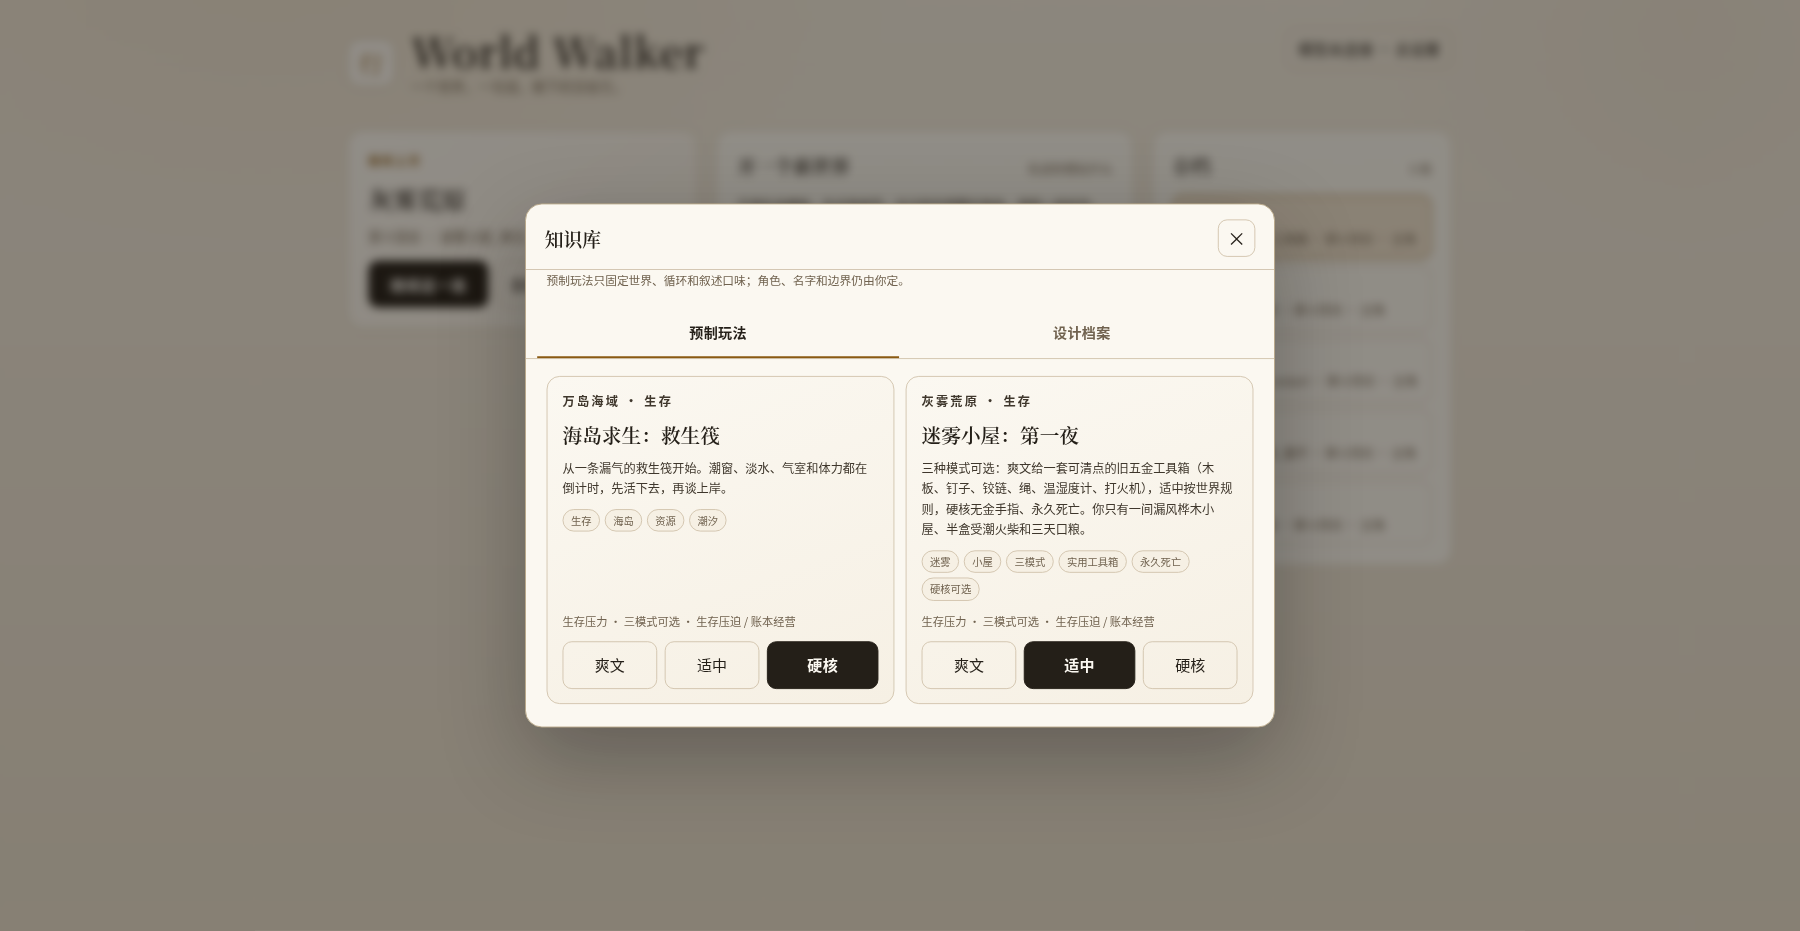
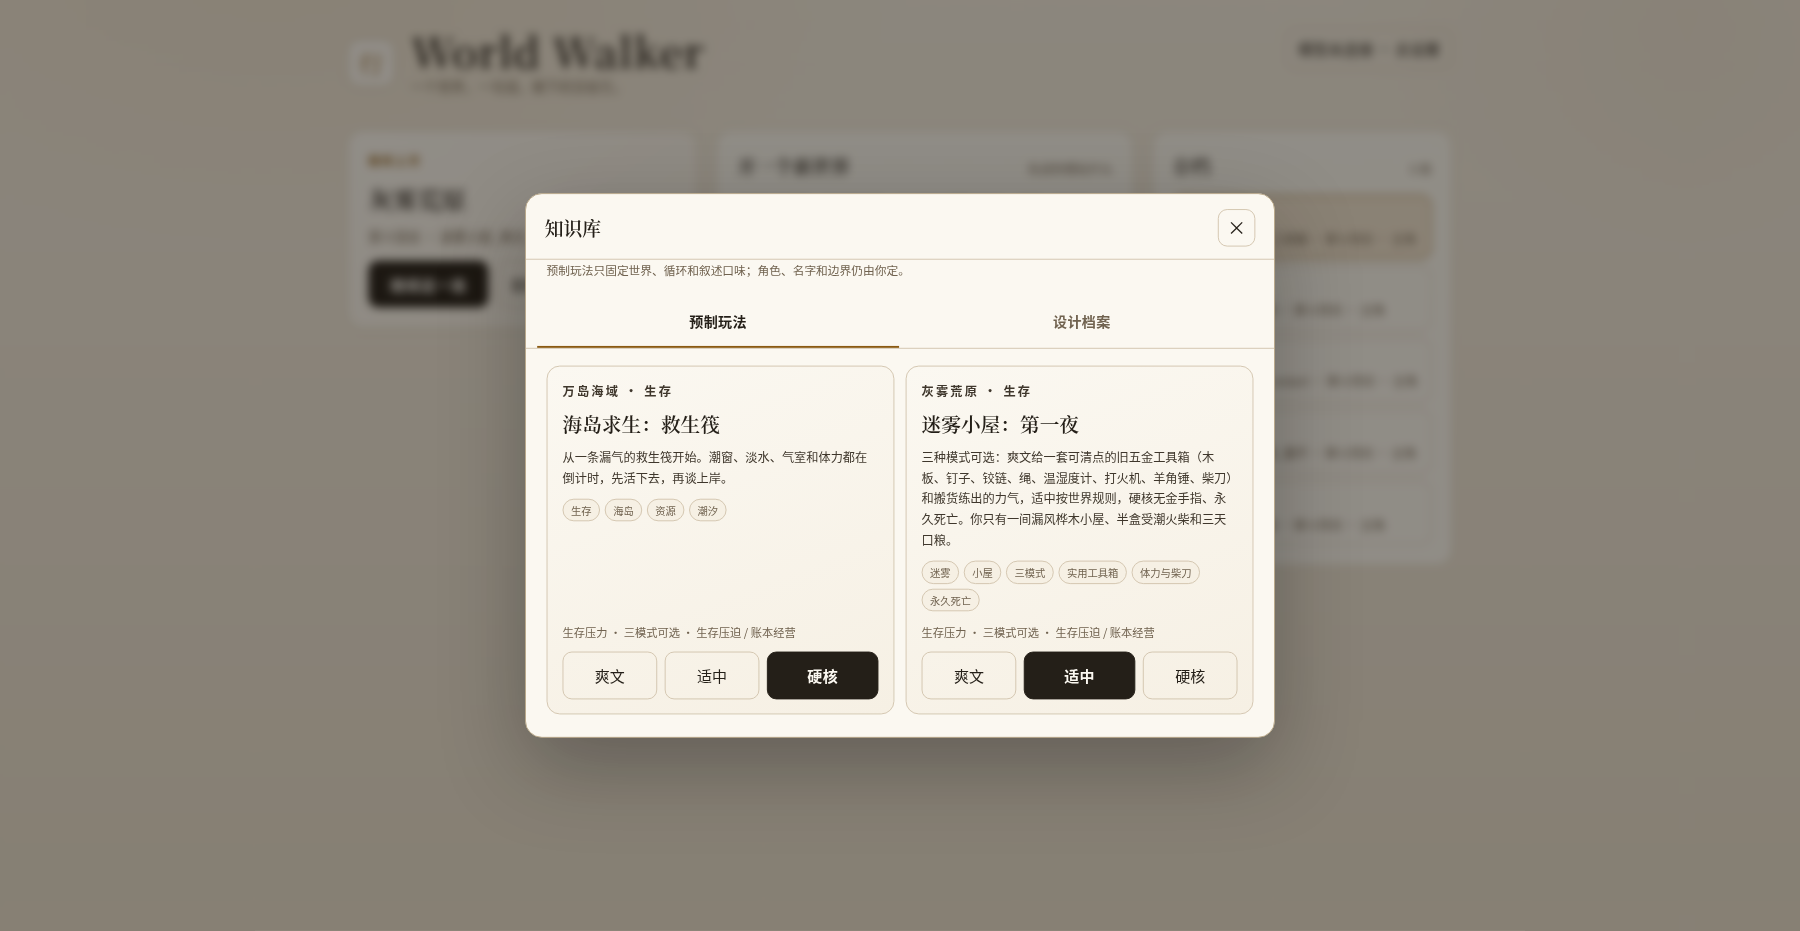
feat: add hauling strength and billhook to fog power mode

Changed region(s): [[0.28, 0.3426, 0.7156, 0.8099], [0.28, 0.1869, 0.7156, 0.3115]]

diff --git a/panel.js b/panel.js
@@ -126,7 +126,7 @@
     tones: ["明亮", "阴郁", "热血", "克制", "荒诞"],
     difficulties: ["轻松", "标准", "硬核", "铁人"],
     modes: [
-      { id: "power", label: "爽文", short: "世界偏向你", description: "起始物资更足；所有加成都是可清点的实物，能数、会用完、会被抢。" },
+      { id: "power", label: "爽文", short: "世界偏向你", description: "起始物资更足；所有加成都能在背包和属性栏里核对，会用完、会被抢。" },
       { id: "balanced", label: "适中", short: "规则不偏向谁", description: "资源、威胁和成长按设定走。" },
       { id: "hardcore", label: "硬核", short: "世界不欠你", description: "资源更紧，死亡不可复活。" },
     ],

diff --git a/rules/modes.py b/rules/modes.py
@@ -18,11 +18,11 @@ MODE_SPECS = {
     "power": {
         "id": "power",
         "label": "爽文",
-        "short": "物资更足，全是实物",
-        "description": "前两类主耗材 +50%，口粮钱 +50%，物价 -15%，库存 +2，压力钟 -1；失败通常留一口气。所有好处都是可清点的实物：会吃掉、烧掉、用坏或被抢走。",
+        "short": "工具齐全，力气够用",
+        "description": "前两类主耗材 +50%，口粮钱 +50%，物价 -15%，库存 +2，压力钟 -1；失败通常留一口气。爽文给的是可清点的工具和搬货练出的身板：会用坏、会累、会被抢。",
         "world_intensity": "低",
         "play_style": "爽文推进",
-        "system_strength": "无系统；可清点的起始物资（会损耗/被抢）",
+        "system_strength": "无系统；可清点的工具与体力（会累/会坏/被抢）",
         "death_rule": "重伤留一口气，不直接抹掉角色",
         "resource_curve": "宽裕",
         "encounter_pressure": "低",
@@ -33,8 +33,8 @@ MODE_SPECS = {
         "clock_delta": -1,
         "price_mult": 0.85,
         "supply_delta": 2,
-        "edge": "起始前两类主耗材 +50%，口粮钱 +50%，物价 -15%、库存 +2；所有加成都是实物，能清点、会损耗。",
-        "narrative_rule": "给玩家留退路：失败先给代价和转机，不连续下死手；爽文加成只能落在可清点的物资、价格、库存和耐久上，不提供任何超自然能力。",
+        "edge": "起始前两类主耗材 +50%，口粮钱 +50%，物价 -15%、库存 +2；所有加成都是可清点的物资和体力。",
+        "narrative_rule": "给玩家留退路：失败先给代价和转机，不连续下死手；爽文加成只能落在可清点的物资、价格、库存、耐久和体力上，不提供任何超自然能力。",
     },
     "balanced": {
         "id": "balanced",
@@ -126,7 +126,7 @@ def _world_overrides(bundle: dict, mode: str) -> dict:
         return {}
     allowed = {"edge", "description", "narrative_rule", "world_intensity",
                "system_strength", "death_rule", "start_items", "start_gold",
-               "label", "short"}
+               "start_weapon", "attr_bonus", "label", "short"}
     return {k: copy.deepcopy(item[k]) for k in allowed if k in item}
 
 
@@ -198,6 +198,17 @@ def apply(state: dict, bundle: dict | None = None, mode=None) -> dict:
                 player["gold"] = int(player.get("gold", 0)) + int(spec["start_gold"])
             except (TypeError, ValueError):
                 pass
+        attrs = player.get("attrs")
+        bonus = spec.get("attr_bonus")
+        if isinstance(attrs, dict) and isinstance(bonus, dict):
+            for attr, delta in bonus.items():
+                try:
+                    attrs[str(attr)] = int(attrs.get(str(attr), 10) or 10) + int(delta)
+                except (TypeError, ValueError):
+                    continue
+        weapon = spec.get("start_weapon")
+        if isinstance(weapon, dict) and weapon.get("name"):
+            player["weapon"] = copy.deepcopy(weapon)
 
     # Initial clock pressure: 爽文 starts one tick calmer, 硬核 one tick hotter.
     gameplay = state.get("gameplay")
@@ -244,7 +255,8 @@ def apply(state: dict, bundle: dict | None = None, mode=None) -> dict:
         k: copy.deepcopy(spec.get(k)) for k in (
             "id", "label", "short", "description", "world_intensity",
             "play_style", "system_strength", "death_rule", "resource_curve",
-            "encounter_pressure", "difficulty", "edge", "narrative_rule"
+            "encounter_pressure", "difficulty", "edge", "narrative_rule",
+            "attr_bonus", "start_weapon"
         ) if k in spec
     }
     return state["mode"]

diff --git a/rules/combat.py b/rules/combat.py
@@ -16,6 +16,26 @@
 import random
 
 
+def _weapon_bonus(entity):
+    """A weapon adds its power only while it has durability left.
+
+    This is intentionally small and local: the engine already resolves damage;
+    weapons are an input, not a second combat system.  A broken weapon falls
+    back to fists instead of silently disappearing from the inventory.
+    """
+    weapon = entity.get("weapon") if isinstance(entity, dict) else None
+    if not isinstance(weapon, dict):
+        return 1.0
+    try:
+        uses = int(weapon.get("durability", 1) or 0)
+        power = float(weapon.get("power", 1.0) or 1.0)
+    except (TypeError, ValueError):
+        return 1.0
+    if uses <= 0:
+        return 1.0
+    return max(1.0, power)
+
+
 def _combat_modifiers(state):
     """返回 (命中倍率, 伤害倍率)。缺失/异常一律回退 1.0，不影响结算可用性。"""
     hit_mult = 1.0
@@ -158,6 +178,8 @@ def resolve_combat(state, attacker_id, defender_id, action="attack", skill=None)
 
     # 计算伤害
     base_damage = atk_attrs.get("str", 10) * 1.5 + atk_tier_bonus * 1.5
+    weapon_bonus = _weapon_bonus(atk_ent)
+    base_damage *= weapon_bonus
 
     # action 加成
     if action == "heavy":
@@ -206,8 +228,20 @@ def resolve_combat(state, attacker_id, defender_id, action="attack", skill=None)
     
     damage = max(1, int(damage))
     result["damage"] = damage
+    result["weapon_bonus"] = weapon_bonus
     
     # 扣除血量
+    weapon = atk_ent.get("weapon") if isinstance(atk_ent, dict) else None
+    if isinstance(weapon, dict) and weapon_bonus > 1.0:
+        try:
+            uses = int(weapon.get("durability", 0) or 0)
+        except (TypeError, ValueError):
+            uses = 0
+        if uses > 0:
+            weapon["durability"] = uses - 1
+            result["weapon_durability"] = weapon["durability"]
+            if weapon["durability"] == 0:
+                result["events"].append("%s卷刃了，下一击只能靠拳脚。" % weapon.get("name", "武器"))
     def_ent["hp"] = max(0, def_ent.get("hp", 0) - damage)
     result["defender_hp_after"] = def_ent["hp"]
     # 结构化胜负：flow_channel_status 直接读它，不再用中文关键词猜
@@ -314,7 +348,7 @@ def preview(state, attacker_id, defender_id, action="attack", skill=None):
     if action == "heavy":
         hit_chance = max(0.1, hit_chance * 0.7)
 
-    base_damage = atk_attrs.get("str", 10) * 1.5 + bonus_atk * 1.5
+    base_damage = (atk_attrs.get("str", 10) * 1.5 + bonus_atk * 1.5) * _weapon_bonus(atk)
     if action == "heavy":
         base_damage *= 1.8
     if isinstance(skill, dict) and skill.get("power"):

diff --git a/scripts/verify_settings.py b/scripts/verify_settings.py
@@ -71,12 +71,22 @@ def main():
         fog_power = SL.build_state(fog_bundle, mode='power')
         edge = (fog_power.get('mode') or {}).get('edge', '')
         items = fog_power['entities']['player'].get('items') or {}
-        check('迷雾小屋·爽文模式给可清点的实用工具箱',
+        player = fog_power['entities']['player']
+        weapon = player.get('weapon') or {}
+        check('迷雾小屋·爽文模式给可清点的实用工具箱 + 体力 + 柴刀',
               '旧五金工具箱' in edge and '4块' in edge and '16枚' in edge
+              and '羊角锤' in edge and '柴刀' in edge and '力量12' in edge
               and items.get('plank') == 4 and items.get('nails') == 16
               and items.get('hinge') == 1 and items.get('rope') == 1
-              and items.get('lighter') == 1 and items.get('thermo') == 1,
-              '%s ｜ items=%s' % (edge[:36], sorted(items)))
+              and items.get('lighter') == 1 and items.get('thermo') == 1
+              and items.get('hammer') == 1 and items.get('machete') == 1
+              and player.get('attrs', {}).get('str') == 12
+              and weapon.get('name') == '旧柴刀'
+              and float(weapon.get('power') or 0) > 1.0
+              and int(weapon.get('durability') or 0) == 20,
+              '%s ｜ str=%s weapon=%s items=%s' % (
+                  edge[:46], player.get('attrs', {}).get('str'),
+                  weapon.get('name'), sorted(items)))
 
     tmp = tempfile.mkdtemp(prefix='ww-settings-')
     for fn in files:

diff --git a/docs/POWER_RESEARCH.md b/docs/POWER_RESEARCH.md
@@ -1,0 +1,53 @@
+# 迷雾求生类小说：什么金手指有用
+
+样本只选“迷雾/废土/全民求生”这一支，看简介、目录和实际能力描述，不看站外榜单。
+
+## 一、可用的四类
+
+1. **身体强化 / 巨力**
+   - 《全球迷雾求生：我能掠夺万物词条》把【巨力】和【净水】写成两种正常天赋：一个能直接在雾里杀怪，一个能持续产出饮用水。
+   - 《荒原余温》开局给“无限空间仓库 + 神级身体强化”，并明确写体力 +999、抗寒 MAX。
+   - 这类能力的好处是能落到数值和动作上：扛多重、打多疼、能撑多久。
+
+2. **武器 / 锻造 / 升级**
+   - 《迷雾求生：我能升级万物》写“普通木棍升级为精钢长刀”“初级体魄升级为钢铁之躯”，成长线是武器和身体一起升级。
+   - 《求生：在迷雾贩卖灵魂》里武器可以随灵魂强化，主角用“裂魂铁斧”这类重武器战斗。
+   - 《末日：我靠撸树，具现帝国》用石剑、火焰附魔钻石剑、TNT 桶解决战斗和守家。
+   - 关键不是“神兵”，而是“手里有能砍、能砸、能守的东西”。
+
+3. **储物 / 净化 / 生产**
+   - 《废土拾荒者：我有无限空间》核心是随身空间囤物资；《神秘空间，人在废土吃香喝辣》把空间写成储物、辐射净化、接触汲取三件事。
+   - 这类能力如果只有“装东西”，会变成背包；如果还能净水、保鲜、净化，就能直接解决生存痛点。
+
+4. **建造 / 据点升级**
+   - 《全球废土：避难所无限升级》《我的末日避难所能升级》把木门→铁门、木矛→电磁矛写成可见的升级链。
+   - 这类金手指的爽点不是“知道危险”，而是“把屋子变厚、把武器变长、把水变干净”。
+
+## 二、信息型为什么容易被嫌
+
+《全球迷雾求生》柯林的“注视几秒得到提示”、《迷雾求生：我的面板只给提示》《迷雾求生：我有路径导航》《迷雾求生：我的提示全知全能》都把“知道”本身当金手指。  
+这类写法在小说里可以推动剧情，但放进游戏会出现两个问题：
+
+- 玩家得到的是“答案”，不是“手段”；知道门外有东西，仍然没有力气、没有武器、没有材料。
+- 提示越全，玩家越像在看攻略，选择空间反而变小。
+
+所以本作不再把“危险预警、物资鉴定、弱点标注、路径导航”当作爽文主能力。
+
+## 三、本作采用的最小组合
+
+迷雾小屋的爽文档不发明超能力，给三样能直接使用的东西：
+
+- **旧五金工具箱**：木板、铁钉、门铰链、尼龙绳、温湿度计、打火机、羊角锤。
+- **一把旧柴刀**：能砍柴、削木、防身；力量 12，柴刀劈砍 ×1.15，连砍 20 次卷刃。
+- **搬货练出的身板**：力量 12（游戏基线 10），能肩扛 60kg 走 20 米；会累、会伤、会饿。
+
+这样玩家第一晚就能做三件事：补窗、加固门、提刀去砍柴；每个动作都有材料消耗、体力消耗和暴露风险，不靠提示，也不靠读心。
+
+## 参考页
+
+- https://www.qidian.com/book/1051367745/ 《全球迷雾求生：我能掠夺万物词条》
+- https://fanqienovel.com/t/hz7UlD0cFiU/ 《迷雾求生：我能升级万物》
+- https://fanqienovel.com/t/-rEdk9Egb2A/ 《荒原余温》
+- https://fanqienovel.com/t/MprGLekgQN0/ 《废土拾荒者：我有无限空间》
+- https://www.qidian.com/book/1026987739/ 《迷雾求生：从小木屋开始签到》
+- https://book.qq.com/book-detail/36677618 《全球迷雾求生》（柯林）

diff --git a/README.md b/README.md
@@ -40,13 +40,13 @@ wg play --state my-game.json
 
 ## Knowledge library
 
-The lobby's “Start from a prefab or archive” entry offers two selectable starts: island survival in the Ten Thousand Islands Sea, and fog-cabin survival in Grey Fog Waste. Every world can be started in one of three modes: **Power** (more starting supplies and room to recover; all gains are countable goods that can be used up or taken), **Balanced** (no favour, no sabotage), and **Hardcore** (scarce resources, faster clocks, permadeath). The fog-cabin Power kit is a second-hand hardware box: 4 boards, 16 nails, 1 hinge, a 10 m rope rated 40 kg, a mechanical thermometer/hygrometer, and a windproof lighter rated for about 80 ignitions. Every piece can be consumed, broken or taken; Hardcore has no kit and no respawn. The prefab fixes the world, play loop, base difficulty, tone and narrative style; name, role, boundaries and what happens next still belong to the player.
+The lobby's “Start from a prefab or archive” entry offers two selectable starts: island survival in the Ten Thousand Islands Sea, and fog-cabin survival in Grey Fog Waste. Every world can be started in one of three modes: **Power** (more starting supplies and room to recover; all gains are countable goods or stamina that can be used up or taken), **Balanced** (no favour, no sabotage), and **Hardcore** (scarce resources, faster clocks, permadeath). The fog-cabin Power kit is a second-hand hardware box: 4 boards, 16 nails, 1 hinge, a 10 m rope rated 40 kg, a mechanical thermometer/hygrometer, a windproof lighter rated for about 80 ignitions, a 500 g claw hammer and a 28 cm billhook. The character also has hauling strength from working in the family shop: STR 12 against a 10 baseline, enough to shoulder 60 kg for 20 m. Every piece can be consumed, broken or taken; the billhook dulls after 20 cuts; Hardcore has no kit and no respawn. The prefab fixes the world, play loop, base difficulty, tone and narrative style; name, role, boundaries and what happens next still belong to the player.
 
 “Design archives” holds the raft, prefab-authoring and release-discipline notes. The data lives in `library/playbooks/*.json` and `library/archives/*.md` and ships with the package.
 
 ### Three modes, one rules core
 
-`load_setting(path=..., mode="power")` accepts `power`, `balanced` or `hardcore`. The mode changes starting HP and supplies, market temperature, initial clock pressure and the GM's narrative rule; the world's own `modes` block names the edge. Power is extra countable stock plus softer market/clock pressure, not an ability. The same three presets work for every setting bundle and template.
+`load_setting(path=..., mode="power")` accepts `power`, `balanced` or `hardcore`. The mode changes starting HP and supplies, market temperature, initial clock pressure and the GM's narrative rule; the world's own `modes` block names the edge. Power is extra countable stock, a modest physical edge where a world supplies one, and softer market/clock pressure; never a mystery sense. The same three presets work for every setting bundle and template.
 
 ## Use your own model
 

diff --git a/README.zh-CN.md b/README.zh-CN.md
@@ -40,7 +40,7 @@ wg play --state my-game.json
 
 ## 知识库与预制玩法
 
-大厅的“从预制玩法或档案开始”里有两套可直接选择的入口：万岛海域·海岛求生，以及灰雾荒原的迷雾小屋。每个世界都可以选三种模式：**爽文**（世界偏向你，起始资源更足、压力更慢；加成全是可清点的实物，能数、会用完、会被抢）、**适中**（不送不坑，按世界规则走）、**硬核**（资源更紧、压力钟更快、死亡不可复活）。迷雾小屋的爽文模式给一套旧五金工具箱：4块60×15cm木板、16枚3cm钉、1副门铰链、1卷10米承重40kg尼龙绳、1只机械温湿度计、1只约80次点火的防风打火机；每件都会损耗、会被抢。硬核模式无金手指、无系统、永久死亡。预制包只固定世界、循环、基础难度、基调和叙述风格；名字、角色、边界和之后发生什么仍由玩家决定。
+大厅的“从预制玩法或档案开始”里有两套可直接选择的入口：万岛海域·海岛求生，以及灰雾荒原的迷雾小屋。每个世界都可以选三种模式：**爽文**（世界偏向你，起始资源更足、压力更慢；加成全是可清点的实物或体力，能数、会用完、会被抢）、**适中**（不送不坑，按世界规则走）、**硬核**（资源更紧、压力钟更快、死亡不可复活）。迷雾小屋的爽文模式给一套旧五金工具箱：4块60×15cm木板、16枚3cm钉、1副门铰链、1卷10米承重40kg尼龙绳、1只机械温湿度计、1只约80次点火的防风打火机、1把500g羊角锤、1把28cm柴刀；外加搬货练出的力气，力量12（普通成年男性10），能肩扛60kg走20米。每件都会损耗、会被抢，柴刀连砍20次会卷刃。硬核模式无金手指、无系统、永久死亡。预制包只固定世界、循环、基础难度、基调和叙述风格；名字、角色、边界和之后发生什么仍由玩家决定。
 
 “设计档案”里有救生筏、预制玩法规范和发布纪律三份底稿。数据在 `library/playbooks/*.json` 与 `library/archives/*.md`，随安装包一起分发。
 

diff --git a/settings/README.md b/settings/README.md
@@ -44,7 +44,7 @@ load_setting(path="settings/玄枢界.setting.json")     # 世界 + 人物 + 市
 | `雾港.setting.json` | 调查悬疑 | 六阶（外行→传奇） | 法币 | 9 条 | 线索链与理智消耗、克苏鲁式"越查越冷" |
 | `白鹿岛.setting.json` | 全民穿越 / 海岛求生 | 六阶生存评级 + 17×5 载具阶位 | 潮币 | 首批 100 万人同时投放；普通充气救生筏即唯一初始基地（无甲板/无初始岛）；潮汐礁安全窗；系统引导/任务/活动/能力；17 大品阶×5 细分阶共 85 级 | 普通大学生在漏气救生筏上醒来；救生筏开局、手环面板、分解系、修筏、扩载具、雾墙、夜潮与邻岛主岛 |
 | `九荒.setting.json` | 修仙 / 凡人流 | 十阶（凡人→渡劫） | 碎银 | 8 条 | 普通大学生坠入古仙坟场：无系统、骨片读残念、青岚宗测骨、裂谷与失踪同学 |
-| `迷雾小屋.setting.json` | 迷雾求生 / 三模式生存 | 六阶据点稳固度 | 口粮 | 9 条 | 爽文给一套可清点的旧五金工具箱（4块木板、16枚钉、1副铰链、1卷10米绳、温湿度计、约80次点火打火机），适中按规则，硬核无金手指/永久死亡；桦木小屋开局，补窗、烧水、守门、雾潮与邻屋 |
+| `迷雾小屋.setting.json` | 迷雾求生 / 三模式生存 | 六阶据点稳固度 | 口粮 | 9 条 | 爽文给一套可清点的旧五金工具箱（4块木板、16枚钉、1副铰链、1卷10米绳、温湿度计、约80次点火打火机、羊角锤、柴刀）和搬货练出的力气（力量12），适中按规则，硬核无金手指/永久死亡；桦木小屋开局，补窗、烧水、守门、雾潮与邻屋 |
 
 七套共用同一套规则内核：战斗、交易、社交、因果、势力演化、长局记忆全部一致，
 差别在**叙事词汇、等级阶梯、经济规模、玩法循环（playbook）与事业线结构**：

diff --git a/CHANGELOG.md b/CHANGELOG.md
@@ -10,7 +10,7 @@
 ### 新增
 
 - 三模式：每个设定包/模板都可用 `爽文 / 适中 / 硬核`。同一套规则内核换模式即换世界强度：初始体力/物资、市场温度、压力钟和 GM 叙事规则一起变；爽文是有代价的轻量优势，硬核不可复活。
-- 迷雾小屋的爽文模式给一套可清点的旧五金工具箱：4块60×15cm桦木板、16枚3cm铁钉、1副门铰链、1卷10米承重40kg尼龙绳、1只机械温湿度计、1只约80次点火的防风打火机。所有加成都是实物；每件都会损耗、会被抢。
+- 迷雾小屋的爽文模式给一套可清点的旧五金工具箱：4块60×15cm桦木板、16枚3cm铁钉、1副门铰链、1卷10米承重40kg尼龙绳、1只机械温湿度计、1只约80次点火的防风打火机、1把500g羊角锤、1把28cm柴刀；外加搬货练出的力气，力量12（普通成年男性10），能肩扛60kg走20米。每件都会损耗、会被抢；柴刀连砍20次会卷刃。
 - 入口：大厅预制卡三按钮、开局向导第 4 步模式选择、MCP `load_setting(..., mode="power")`。
 
 ### 变更
